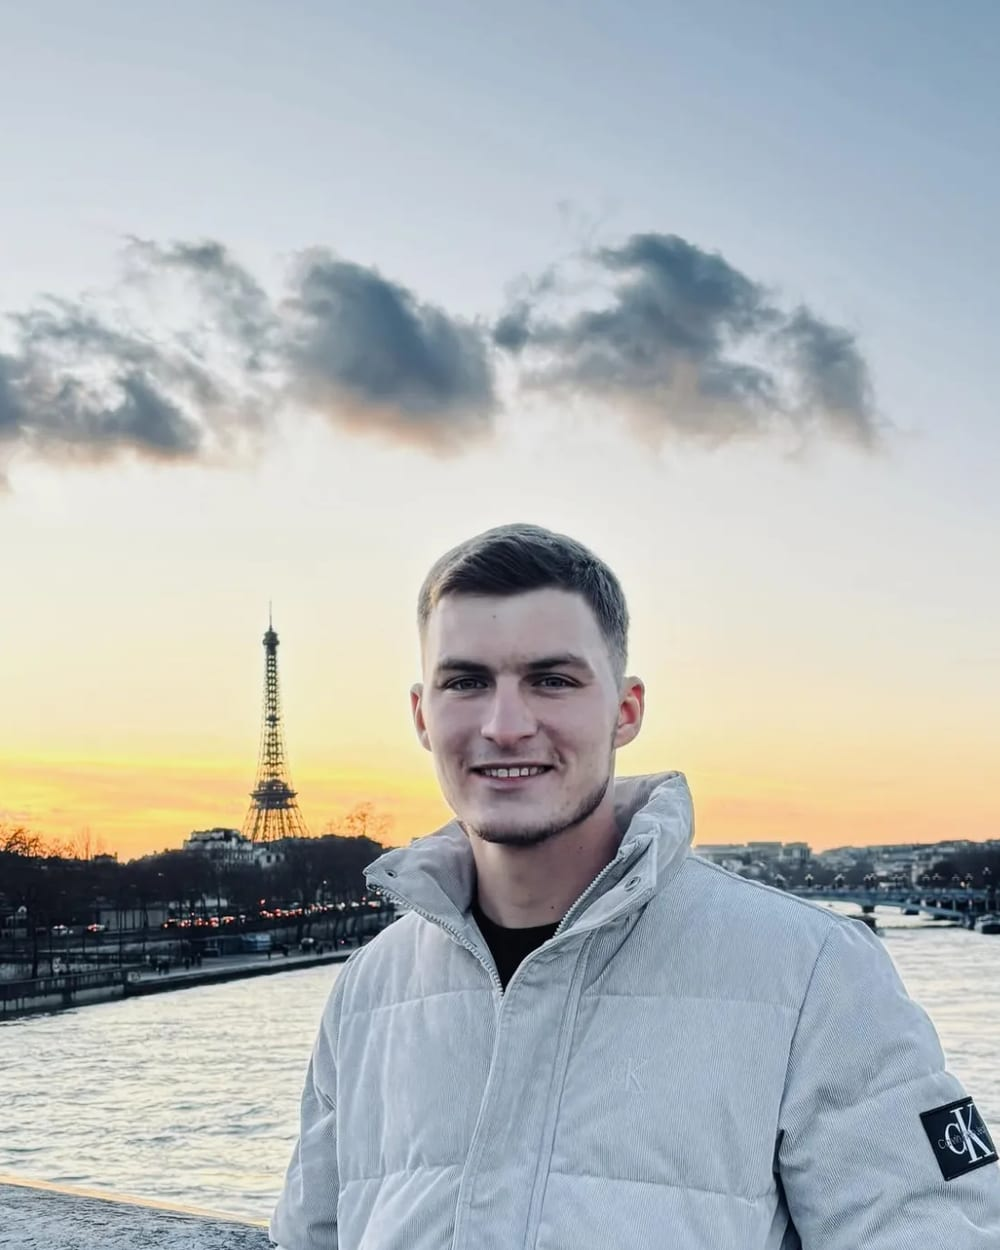
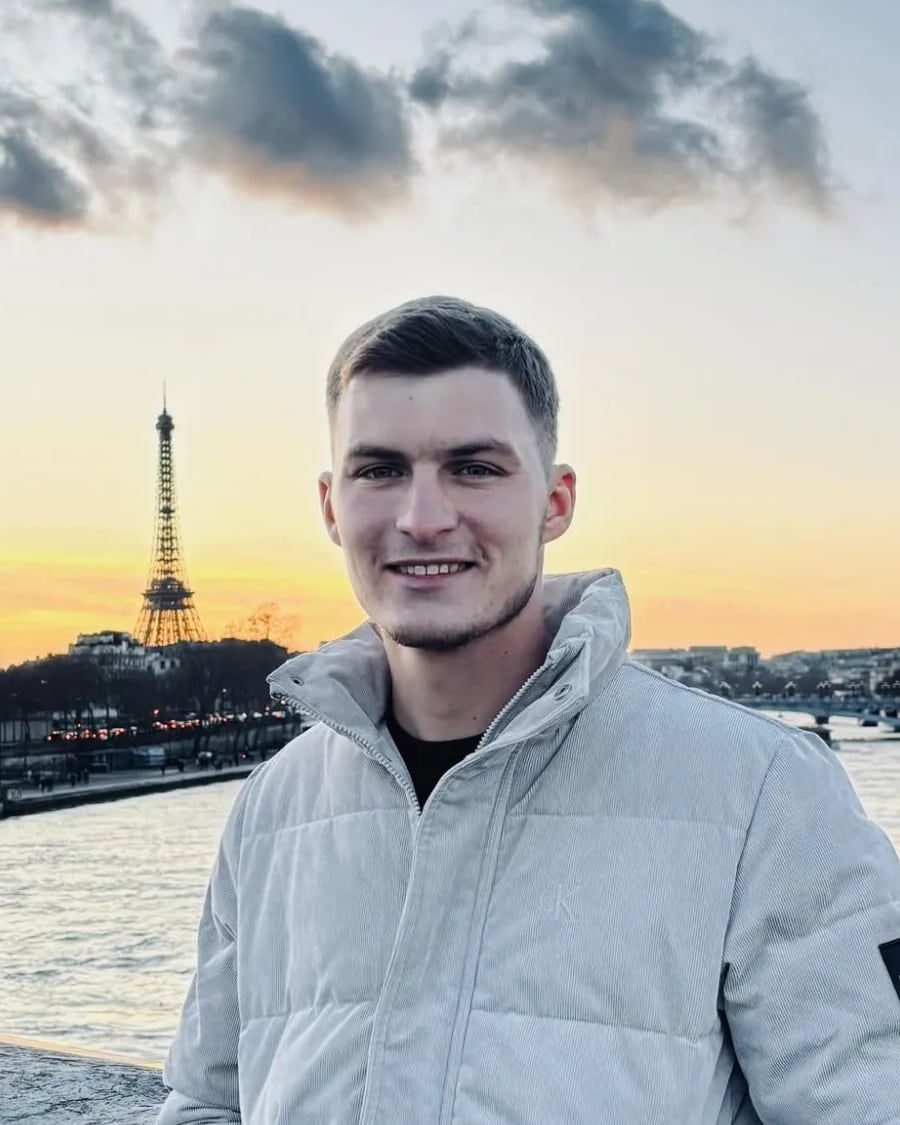
Équipe sur téléphone : les deux portraits côte à côte, visages centrés ; prompt de reprise pour Opus

diff --git a/docs/prompt-opus.md b/docs/prompt-opus.md
@@ -1,0 +1,31 @@
+# Prompt à donner à Opus (état du 16 octobre 2026)
+
+Copier-coller tout ce qui suit dans une nouvelle session Claude Code ouverte dans le dossier du projet.
+
+---
+
+Tu reprends le site vitrine **Ely Facade** (rénovation de façades, Belgique, FR + NL) dans `/Users/claudiupopadiuc/Documents/GitHub/ely-facade`. Je suis Claudiu : je fais tout l'informatique pour les deux gérants (Elisei et Simi Ungureanu). Réponds-moi en français, court, direct, sans jargon.
+
+## Lis d'abord (dans cet ordre)
+1. `CLAUDE.md` : les règles non négociables (rien d'inventé sur l'entreprise, société récente donc jamais « depuis », pas de « salariés », garantie « 10 ans minimum » seulement, pas de prix/assurance/avis, photos sans adresse client et sans métadonnées dans `src/assets/`, tout texte en FR **et** NL, site 100 % statique, aucun code mort).
+2. `docs/avancement.md` (en tête : l'état du projet et ce qui a changé sur la branche en cours).
+3. `docs/suivi-client.md` (ce qui est confirmé, ce qui est à demander à Elisei, rien n'est affiché tant que ce n'est pas confirmé).
+
+## Où on en est
+- Le site complet est sur `main`. Tout le travail récent est dans la branche **`ameliorations-accueil`** (partie de `main`, plusieurs commits, **jamais poussée** : je pousse moi-même). Reste sur cette branche ou crée-en une nouvelle depuis `main` pour chaque nouveau changement ; ne touche jamais `main`.
+- Fait sur cette branche : haut de page « Votre façade mérite de briller » (titre grand sur téléphone), grande section Équipe juste sous le haut de page (portraits d'Elisei et Simi, prénom sur la photo, phrases), avant/après en curseur partout (Namur en premier), chiffres (8, dont le nombre de services calculé depuis `src/data/metiers.ts`), carte de Belgique interactive (petite maison pour le bureau, fenêtre avant/après et lien chantier au clic : popup sur ordinateur, feuille du bas sur téléphone), étapes d'une façade en liste continue, 8 services (isolation par l'extérieur, traitement des fissures et échafaudage ajoutés), formulaire de devis compact sur téléphone (boutons collés en bas, tuile « Façade complète, de A à Z », champ « Autre chose »), simulateur de surface, bouton Email partout où il y a WhatsApp, moins d'espaces entre sections, moins de répétitions.
+- Dernière demande en cours : sur téléphone, Elisei et Simi côte à côte sur le même écran, visage bien centré (fait, à valider par moi).
+
+## Ce que je veux que tu fasses (dans cet ordre)
+1. **Audit sans rien casser** : lance `npm run build`, ouvre le site (le serveur de dev tourne déjà sur http://localhost:4321, sinon `npm run dev`) et fais le tour de l'accueil sur téléphone (390 px, aussi 320 px) et ordinateur (1440 px), en FR puis en NL. Liste-moi ce qui est cassé, lent, moche ou répété (la même info deux fois dans le même écran est interdite ; deux fois à plusieurs écrans d'écart reste acceptable).
+2. **Performance, surtout la carte de Belgique** : j'ai remarqué que le site devient plus lent quand on arrive sur la carte (`src/components/CarteBelgique.astro`, `src/scripts/carte.ts`). J'ai déjà retiré le flou de l'ombre, le `clipPath` et l'animation infinie ; mesure avec le CPU ralenti x4 (outils du navigateur), trouve ce qui coûte encore (animations, `backdrop-filter`, `drop-shadow`, popups, curseurs), et allège sans perdre l'effet. Vérifie aussi le poids des images de l'accueil.
+3. **Section Équipe** (`src/components/accueil/Equipe.astro`) : je veux qu'elle soit **inventive et très belle**, un cran au-dessus d'un site vitrine classique. Propose 2 ou 3 idées (composition, mouvement doux, typographie, photos) puis réalise la meilleure. Contraintes : Elisei n'est pas seulement « visite et devis », il travaille aussi sur les chantiers ; Simi dirige les chantiers ; chacun a une belle phrase (déjà dans `src/i18n/fr.ts` et `nl.ts`, améliore-les si tu as mieux, sans rien inventer de factuel) ; ne jamais montrer les mains dans les poches de Simi ; sur téléphone les deux frères tiennent sur le même écran, visage centré. La photo d'Elisei n'a que 400 px de large (c'est ce que j'ai) : dis-moi si une photo plus grande changerait le rendu et je la demanderai.
+4. **Menu sur téléphone** : sur certaines largeurs, le bouton « Menu » en haut à droite ressemble à être coupé ou peu visible. Je n'ai pas réussi à le reproduire à 320, 360, 393, 430 et 768 px dans mes tests (pas de débordement mesuré). Cherche la cause (largeur du logo, sélecteur FR/NL, barre de défilement, zoom du navigateur), rends le bouton toujours entièrement visible et bien contrasté.
+5. **Qualité générale** : cherche le code mort (textes FR/NL ou fichiers devenus inutiles), vérifie que FR et NL ont exactement la même structure (`src/i18n/fr.ts` / `nl.ts`), que `npm run build` passe sans erreur, et que rien ne déborde à 320 px.
+
+## Façon de travailler (obligatoire)
+- Une liste de tâches courte, un point d'avancement à la fin de chaque étape.
+- Teste toi-même au minimum (téléphone + ordinateur, FR + NL) : je teste ensuite et je te dis ce que je n'aime pas. Ne demande pas de validation pour les détails de style ; demande-moi seulement ce qui change le contenu ou une règle.
+- **Git** : uniquement `/Applications/GitHub Desktop.app/Contents/Resources/app/git/bin/git`, avec `GIT_EXEC_PATH="/Applications/GitHub Desktop.app/Contents/Resources/app/git/libexec/git-core"` devant la commande. Commit en français à la fin de chaque changement, **sans** ligne Co-Authored-By et **sans** mention de Claude. **Ne pousse jamais.** Ne retire jamais la ligne `ignore = "exit 0"` de `netlify.toml`.
+- N'invente rien sur l'entreprise. Si une info manque, ne l'affiche pas et note-la dans `docs/suivi-client.md`.
+- Mets à jour `docs/avancement.md` (en tête) à chaque lot terminé.
